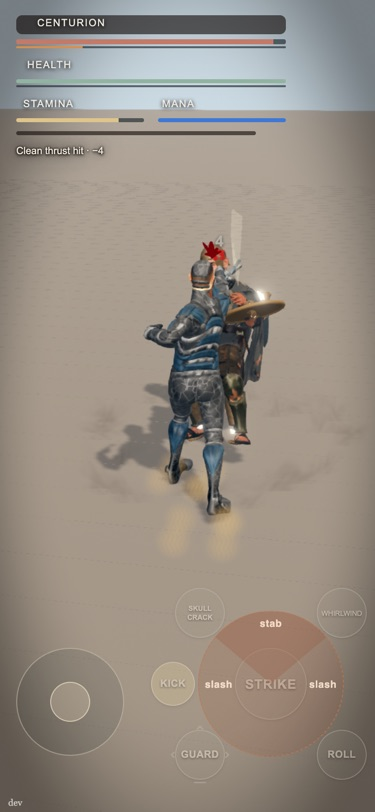
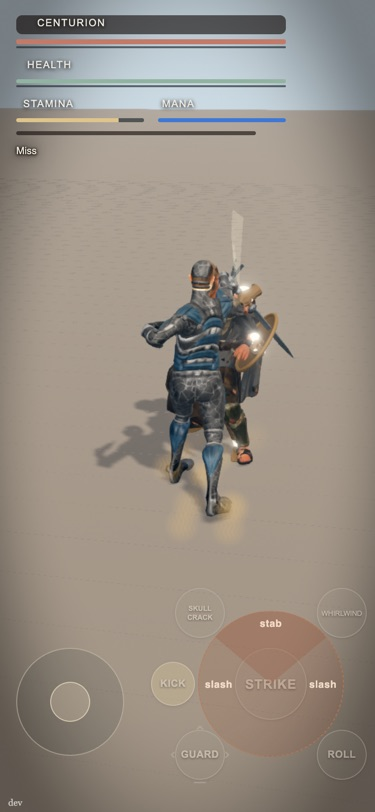
Ease the picked clips back to V1's reach at contact (pullback rows)
Strategy 2026-10-26: under V1's sweeps the drawn blade must not reach past
the hit. Each picked clip gets a `pullback` row in data/hero-clips.json:
the picked sweep's tip minus V1's, forward, at the contact tick (cut 0.289,
mirrored cut 0.331, stab 0.438, heavy 0.217 m; a test pins it to the mm).
The hero's drawn body eases back by it, all of it on the contact tick
(characters.ts, beside the recoil's root offset). Presentation only: 0
under ?reach=clip; ?clips=v1 unchanged. Gate 0 56/56, hashes unchanged.

diff --git a/src/fight/characters.ts b/src/fight/characters.ts
@@ -135,7 +135,14 @@ const GUARD_WALK_ROLES: readonly Role[] = ['ArmedWalk', 'StrafeLeft', 'StrafeRig
 // V3: Dom's picked strike clips (data/hero-clips.json, baked into warrior.glb beside V1's). The player's actor with `weapon` plays `clip` for
 // `role` and eases it so the clip's contact key (`source`, 0-1) meets the sim's contact tick. Set before the rigs are built; null (?clips=v1)
 // = V1's clips. A rig without the clip (an older GLB) keeps V1's.
-export type HeroClipPick = { role: Role; clip: string; source: number };
+// `pullback` (metres, data/hero-clips.json): the drawn body eased back along his facing, all of it on the contact tick, so the drawn tip meets the
+// sweep the sim hits with (src/hero-reach.ts pullbackFor; 0 under ?reach=clip). Presentation only.
+export type HeroClipPick = { role: Role; clip: string; source: number; pullback?: number };
+// 0 at the swing's start and end, 1 on the contact tick, smoothstepped each side (the eased-back drawn body of a picked clip)
+export const pullbackWeight = (progress: number, contact: number): number => {
+  const t = Math.max(0, Math.min(1, progress <= contact ? progress / contact : (1 - progress) / (1 - contact)));
+  return t * t * (3 - 2 * t);
+};
 let HERO_CLIPS: { weapon: WeaponId; picks: readonly HeroClipPick[] } | null = null;
 export const setHeroClips = (rows: { weapon: WeaponId; picks: readonly HeroClipPick[] } | null): void => { HERO_CLIPS = rows; };
 export const heroClipsOn = (): boolean => HERO_CLIPS !== null;
@@ -507,6 +514,7 @@ export function buildWarriors(asset: FighterAsset, opponentAsset?: FighterAsset,
     const roles = [...ROLES, ...ADDITIVE_ROLES].filter(role => clips[role]);   // the roles this rig carries clips for (the appended scenes are optional)
     // V3: a picked clip's own contact key, for the roles this actor plays a pick on (setHeroClips)
     const pickedSource: Partial<Record<Role, number>> = Object.fromEntries(roles.flatMap(role => { const p = heroPick(weapon, role); return p && clips[role].name === p.clip ? [[role, p.source]] : []; }));
+    const pickedPullback: Partial<Record<Role, number>> = Object.fromEntries(roles.flatMap(role => { const p = heroPick(weapon, role); return p?.pullback && clips[role].name === p.clip ? [[role, p.pullback]] : []; }));
     const root = clone(asset.scene), anchor = new Group(); anchor.add(root);
     rigMaterials(root);   // a rig is built before it wears anything: let it register a shared mapped copy (Wrap) now, so a creature wearing pieces before the hero ever does is not left white
     // A re-proportioned fighter's walk cycle covers less ground than a man's (build-warrior.mjs writes `stride`, root scale × leg scale, on
@@ -959,6 +967,8 @@ export function buildWarriors(asset: FighterAsset, opponentAsset?: FighterAsset,
         droppedWeapon?.apply(fell && tmpl === 'hamstring' ? (progress - HAMSTRUNG_BEATS.knee) * HAMSTRUNG_BEATS.duration : fell && tmpl === 'execute' ? (progress - EXECUTION_BEATS.drop) * EXECUTION_BEATS.duration / EXECUTION_BEATS.speed : -1);   // seconds since the knee blow; negative keeps it in his hand
         root.rotation.z = pose === 'hit' ? Math.sin(Math.PI*Math.min(1,progress))*(attack === 'return' ? -.12 : .12) : recoil*.06;
         root.position.z = -Math.abs(recoil)*.045;
+        const pullback = pose === 'attack' && combatRole && !specialPlay ? pickedPullback[combatRole] ?? 0 : 0;   // V3: a picked clip on V1's sweeps
+        if (pullback) root.position.z -= pullback * pullbackWeight(progress, contact);
         // The enlarged Wraith lowers its attacking arm toward the original strike height.
         // Blend through wind-up/recovery; keep its body, grip and simulation untouched.
         if (spectral && WEAPON_LOOK[weapon]?.lowerArm !== false && upperArm?.parent && pose === 'attack') {

diff --git a/src/hero-clips.ts b/src/hero-clips.ts
@@ -1,12 +1,13 @@
 // Dom's picked strike clips (data/hero-clips.json, 2026-10-26): the hero plays them in place of V1's Attack / Return / Riposte-as-thrust /
 // Heavy. V1's timing rows are untouched: each clip is eased onto V1's ticks through its contact key. The sim keeps V1's blade sweeps under
 // them by default (Strategy 2026-10-26: reach is a combat number); ?reach=clip sweeps along the picked clips (src/fight/blade-picks.ts over
-// V1's blade-paths.ts for those paths only). ?clips=v1 = V1's clips and sweeps exactly. The choice is src/hero-reach.ts.
+// V1's blade-paths.ts for those paths only). On V1's sweeps each clip's drawn body is eased back by its row's `pullback` at contact, so the
+// drawn blade tip meets V1's reach. ?clips=v1 = V1's clips and sweeps exactly. The choice is src/hero-reach.ts.
 import ROWS from '../data/hero-clips.json' with { type: 'json' };
 import { setSweepOverride } from './fight/blade.ts';
 import { setHeroClips, type Role } from './fight/characters.ts';
 import type { WeaponId } from './fight/moves.ts';
-import { heroClipsAsked, sweepTableFor } from './hero-reach.ts';
+import { heroClipsAsked, pullbackFor, sweepTableFor } from './hero-reach.ts';
 
 export { heroClipsAsked } from './hero-reach.ts';
 type Row = { role: string; clip: string; from: number; to: number; contact: number };
@@ -15,7 +16,7 @@ export const sourceOf = (r: Row): number => (r.contact - r.from) / (r.to - r.fro
 /** Set before the rigs are built and before the first sim step. Returns whether the picks are on. */
 export function applyHeroClips(search: string): boolean {
   const on = heroClipsAsked(search);
-  setHeroClips(on ? { weapon: ROWS.weapon as WeaponId, picks: ROWS.clips.map((r) => ({ role: r.role as Role, clip: r.clip, source: sourceOf(r) })) } : null);
+  setHeroClips(on ? { weapon: ROWS.weapon as WeaponId, picks: ROWS.clips.map((r) => ({ role: r.role as Role, clip: r.clip, source: sourceOf(r), pullback: pullbackFor(search, r) })) } : null);
   setSweepOverride(sweepTableFor(search));
   return on;
 }

diff --git a/src/sim/validate.js b/src/sim/validate.js
@@ -12,7 +12,7 @@ export const SCHEMA = {
   // V3's opponent brains (src/brain.ts): a row names only V1 AiProfile knobs (src/fight/moves.ts)
   'brains': { keys: ['about', 'brains'], rows: { brains: ['id', 'reaction', 'accuracy', 'parry', 'dodge', 'aggression', 'pressure', 'discipline', 'lapse', 'read'] } },
   // Dom's picked hero strike clips (src/hero-clips.ts, scripts/hero-clips/)
-  'hero-clips': { keys: ['about', 'sweeps', 'rig', 'weapon', 'blade', 'clips'], rows: { clips: ['role', 'clip', 'mixamo', 'name', 'mirror', 'from', 'to', 'contact', 'aim', 'paths', 'about'] }, maps: { blade: ['about', 'node', 'contact'], sweeps: ['about', 'default', 'query'] } },
+  'hero-clips': { keys: ['about', 'sweeps', 'rig', 'weapon', 'blade', 'clips'], rows: { clips: ['role', 'clip', 'mixamo', 'name', 'mirror', 'from', 'to', 'contact', 'pullback', 'aim', 'paths', 'about'] }, maps: { blade: ['about', 'node', 'contact'], sweeps: ['about', 'default', 'query'] } },
   'sound': { keys: ['about', 'keep', 'statusMs'], maps: { keep: ['about', 'samples', 'rate', 'volume'] } },
 };
 

diff --git a/src/hero-reach.ts b/src/hero-reach.ts
@@ -17,6 +17,9 @@ export function reachFor(search: string): Reach {
   const asked = new URLSearchParams(search).get(ROWS.sweeps.query) as Reach | null;
   return asked && REACHES.includes(asked) ? asked : ROWS.sweeps.default as Reach;
 }
+/** How far a picked clip's drawn body is eased back at contact (metres): the row's `pullback` on V1's sweeps, so the drawn tip meets V1's
+ *  reach; 0 under ?reach=clip, where the sweeps already follow the drawn blade. */
+export const pullbackFor = (search: string, row: { pullback: number }): number => reachFor(search) === 'v1' ? row.pullback : 0;
 /** The table blade.ts setSweepOverride lays over V1's for this query: null = V1's sweeps untouched. */
 export const sweepTableFor = (search: string): SweepTable | null =>
   reachFor(search) === 'clip' ? { [ROWS.rig]: { [ROWS.weapon]: BLADE_PICKS } } : null;
